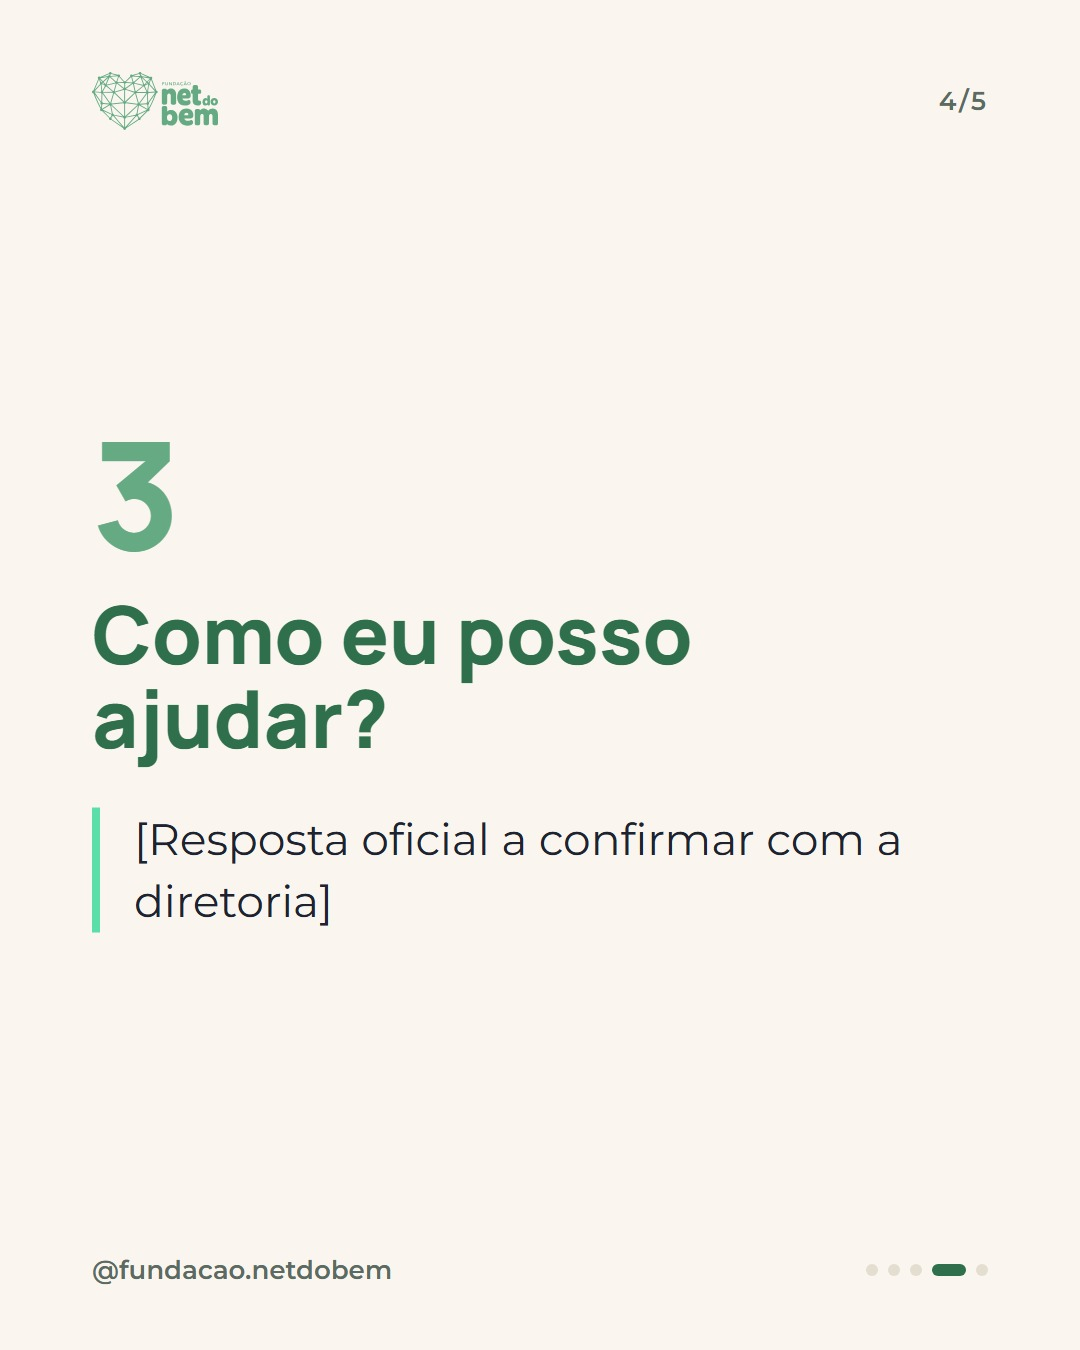
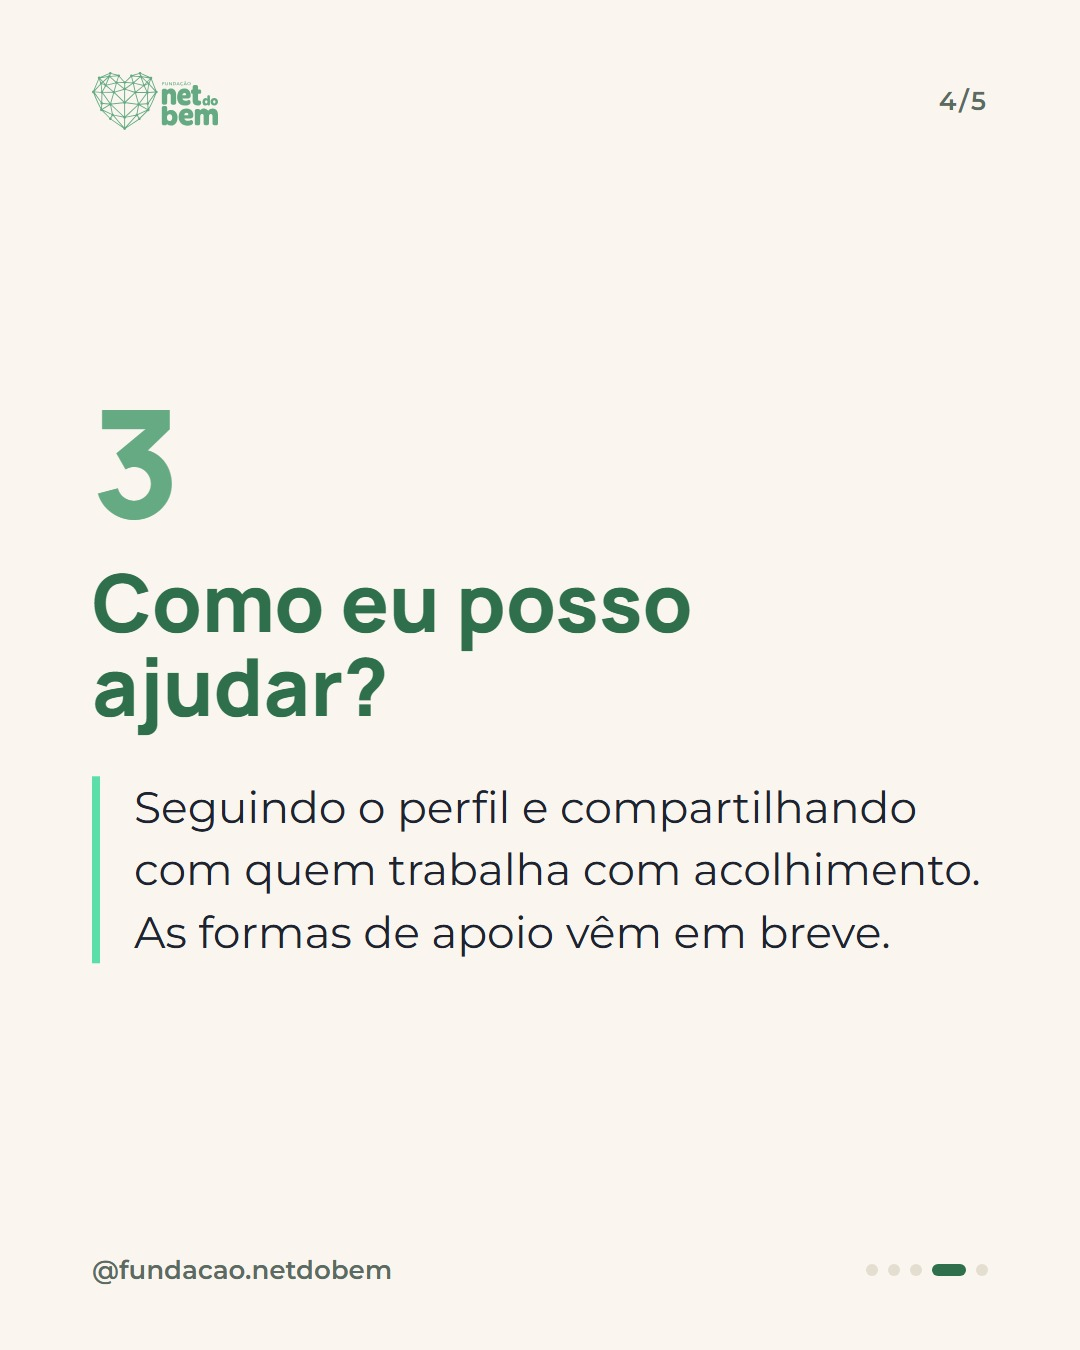
Roteiros: captação, fala e Reels do André, FAQ provisório e entrevista com cuidador

Changed region(s): [[0.0611, 0.28, 0.8861, 0.7156], [0.0611, 0.6844, 0.0917, 0.7156], [0.0611, 0.56, 0.0917, 0.5911]]

diff --git a/index.html b/index.html
@@ -82,5 +82,5 @@ textarea{width:100%;min-height:90px;border:1px solid var(--borda);border-radius:
 <main class="wrap"><section><h2 class="sec-t">Meses</h2><a class="tl" href="novembro-dezembro/index.html" style="padding:14px"><img src="novembro-dezembro/01-hoje-e-dia-de-inaugurar/1.jpg" style="width:72px;height:90px">
 <div class="inf"><div class="tt" style="font-size:19px">Novembro e Dezembro 2026</div><div class="mt">Do fim de novembro ao fim de dezembro: a inauguração em 26/11 (Fase 0), quem somos (Fase 1) e quem cuida (Fase 2). Dezesseis posts para a Net do Bem existir, se explicar em 10 segundos e abrir o nosso território: quem cuida de quem cuida.</div>
 <div style="margin-top:6px"><span class="pill ok">10 prontos</span><span class="pill pend">6 com pendência</span></div></div></a><div class="tl" style="padding:14px;opacity:.7"><div class="inf"><div class="tt" style="font-size:19px">Janeiro 2027</div><div class="mt">Fase 3 · Como ajudar. Pautas definidas na estratégia, arte depois dos primeiros dados do perfil.</div></div></div><div class="tl" style="padding:14px;opacity:.7"><div class="inf"><div class="tt" style="font-size:19px">Fevereiro 2027</div><div class="mt">Fase 4 · Transparência. Pautas definidas na estratégia, arte depois dos primeiros dados do perfil.</div></div></div></section>
-<section><h2 class="sec-t">Estratégia e documentação</h2><a class="tl" href="doc.html?f=estrategia/01-estrategia.md"><div class="inf"><div class="tt">Estratégia, conflitos resolvidos e calendário</div><div class="mt">estrategia/01-estrategia.md</div></div></a><a class="tl" href="doc.html?f=estrategia/02-pesquisa-tendencias.md"><div class="inf"><div class="tt">Pesquisa: tendências e oportunidades</div><div class="mt">estrategia/02-pesquisa-tendencias.md</div></div></a><a class="tl" href="doc.html?f=estrategia/03-sistema-visual.md"><div class="inf"><div class="tt">Sistema visual</div><div class="mt">estrategia/03-sistema-visual.md</div></div></a><a class="tl" href="doc.html?f=estrategia/04-guia-copy.md"><div class="inf"><div class="tt">Guia de copy e revisão no-ai-slop</div><div class="mt">estrategia/04-guia-copy.md</div></div></a><a class="tl" href="doc.html?f=estrategia/05-fluxo-orquestrado.md"><div class="inf"><div class="tt">Fluxo dos 5 papéis e aprovação</div><div class="mt">estrategia/05-fluxo-orquestrado.md</div></div></a><a class="tl" href="doc.html?f=briefing/briefing-net-do-bem-v2.md"><div class="inf"><div class="tt">Briefing V2 (fonte de verdade)</div><div class="mt">briefing/briefing-net-do-bem-v2.md</div></div></a></section>
+<section><h2 class="sec-t">Estratégia e documentação</h2><a class="tl" href="doc.html?f=estrategia/01-estrategia.md"><div class="inf"><div class="tt">Estratégia, conflitos resolvidos e calendário</div><div class="mt">estrategia/01-estrategia.md</div></div></a><a class="tl" href="doc.html?f=estrategia/02-pesquisa-tendencias.md"><div class="inf"><div class="tt">Pesquisa: tendências e oportunidades</div><div class="mt">estrategia/02-pesquisa-tendencias.md</div></div></a><a class="tl" href="doc.html?f=estrategia/03-sistema-visual.md"><div class="inf"><div class="tt">Sistema visual</div><div class="mt">estrategia/03-sistema-visual.md</div></div></a><a class="tl" href="doc.html?f=estrategia/04-guia-copy.md"><div class="inf"><div class="tt">Guia de copy e revisão no-ai-slop</div><div class="mt">estrategia/04-guia-copy.md</div></div></a><a class="tl" href="doc.html?f=estrategia/05-fluxo-orquestrado.md"><div class="inf"><div class="tt">Fluxo dos 5 papéis e aprovação</div><div class="mt">estrategia/05-fluxo-orquestrado.md</div></div></a><a class="tl" href="doc.html?f=roteiros/01-captacao-inauguracao.md"><div class="inf"><div class="tt">Lista de captação da inauguração (26/11)</div><div class="mt">roteiros/01-captacao-inauguracao.md</div></div></a><a class="tl" href="doc.html?f=roteiros/02-fala-abertura-andre.md"><div class="inf"><div class="tt">Fala de abertura do André</div><div class="mt">roteiros/02-fala-abertura-andre.md</div></div></a><a class="tl" href="doc.html?f=roteiros/03-reels-andre.md"><div class="inf"><div class="tt">Roteiro do Reels do André</div><div class="mt">roteiros/03-reels-andre.md</div></div></a><a class="tl" href="doc.html?f=roteiros/04-faq-provisorio.md"><div class="inf"><div class="tt">Respostas provisórias para comentários e Direct</div><div class="mt">roteiros/04-faq-provisorio.md</div></div></a><a class="tl" href="doc.html?f=roteiros/05-entrevista-cuidador.md"><div class="inf"><div class="tt">Roteiro de entrevista com cuidador</div><div class="mt">roteiros/05-entrevista-cuidador.md</div></div></a><a class="tl" href="doc.html?f=briefing/briefing-net-do-bem-v2.md"><div class="inf"><div class="tt">Briefing V2 (fonte de verdade)</div><div class="mt">briefing/briefing-net-do-bem-v2.md</div></div></a></section>
 <p class="foot">Substrato Digital para Fundação Net do Bem</p></main></body></html>

diff --git a/novembro-dezembro/index.html b/novembro-dezembro/index.html
@@ -603,6 +603,7 @@ Compartilhe com quem cuida de alguém.</div>
    <p>1 ideia · 1 CTA · gancho até 6 palavras · sem criança identificável · sem endereço ou rotina · sem cópia de perfil de referência · sem Imposto de Renda · rosto de adulto só com autorização · aprovado por Barros, Patrícia e Agda.</p></details>
  </div>
 </article></section><section><h2 class="sec-t">Posts de reserva</h2><div class="box res"><ul><li><b>Bastidor de formação de quem cuida</b> (Fase 2). Assim que a primeira formação acontecer. Depende de uma formação real com registro e autorização.</li><li><b>Casa de acolhimento? Responda ao mapeamento</b> (Fase 1 ou 2). Quando a diretoria aprovar. Precisa de um CTA novo (&quot;Acesse o portal na bio&quot;), que não está na lista da seção 11 do briefing.</li></ul></div></section>
+<section><h2 class="sec-t">Roteiros e captação</h2><p class="sec-p">Rascunhos com pendência para a equipe revisar.</p><a class="tl" href="../doc.html?f=roteiros/01-captacao-inauguracao.md"><div class="inf"><div class="tt">Lista de captação da inauguração (26/11)</div><div class="mt">roteiros/01-captacao-inauguracao.md</div></div></a><a class="tl" href="../doc.html?f=roteiros/02-fala-abertura-andre.md"><div class="inf"><div class="tt">Fala de abertura do André</div><div class="mt">roteiros/02-fala-abertura-andre.md</div></div></a><a class="tl" href="../doc.html?f=roteiros/03-reels-andre.md"><div class="inf"><div class="tt">Roteiro do Reels do André</div><div class="mt">roteiros/03-reels-andre.md</div></div></a><a class="tl" href="../doc.html?f=roteiros/04-faq-provisorio.md"><div class="inf"><div class="tt">Respostas provisórias para comentários e Direct</div><div class="mt">roteiros/04-faq-provisorio.md</div></div></a><a class="tl" href="../doc.html?f=roteiros/05-entrevista-cuidador.md"><div class="inf"><div class="tt">Roteiro de entrevista com cuidador</div><div class="mt">roteiros/05-entrevista-cuidador.md</div></div></a></section>
 <p class="foot">Fundação Net do Bem · @fundacao.netdobem · Conteúdo preparado pela Substrato Digital</p></main>
 <div class="toast"></div><script>
 document.querySelectorAll('.slider').forEach(s=>{const t=s.querySelector('.track'),im=[...t.children],th=[...s.parentElement.querySelectorAll('.thumbs img')],c=s.querySelector('.cnt');

diff --git a/doc.html b/doc.html
@@ -8,5 +8,5 @@ code,pre{background:#fff;border:1px solid #E6E0D3;border-radius:8px}pre{padding:
 <script src="https://cdn.jsdelivr.net/npm/marked@12/marked.min.js"></script></head><body>
 <header><a href="index.html">← Fundação Net do Bem · Instagram e Facebook</a></header><main id="c">Carregando…</main>
 <script>const f=new URLSearchParams(location.search).get('f')||'';
-if(!/^(estrategia|briefing)\/[\w.-]+\.md$/.test(f)){document.getElementById('c').textContent='Documento não encontrado.'}
+if(!/^(estrategia|briefing|roteiros)\/[\w.-]+\.md$/.test(f)){document.getElementById('c').textContent='Documento não encontrado.'}
 else fetch(f).then(r=>r.text()).then(t=>{document.getElementById('c').innerHTML=marked.parse(t);document.title=(t.match(/^# (.*)/m)||[,'Documento'])[1]})</script></body></html>

diff --git a/ferramentas/build.py b/ferramentas/build.py
@@ -218,6 +218,7 @@ def month_page(mes):
 {cal}</section>
 <section id="posts"><h2 class="sec-t">Posts para revisão</h2><p class="sec-p">Arraste as imagens, copie a legenda de cada rede e aprove ou peça ajuste. Post com pendência só vai ao ar depois que ela for resolvida.</p>
 {filt}{posts}</section>{reserva}
+<section><h2 class="sec-t">Roteiros e captação</h2><p class="sec-p">Rascunhos com pendência para a equipe revisar.</p>{"".join(f'<a class="tl" href="../doc.html?f={f}"><div class="inf"><div class="tt">{e(t)}</div><div class="mt">{f}</div></div></a>' for f, t in DOCS if f.startswith("roteiros/"))}</section>
 <p class="foot">Fundação Net do Bem · @fundacao.netdobem · Conteúdo preparado pela Substrato Digital</p></main>
 <div class="toast"></div><script>{JS}</script></body></html>"""
 
@@ -227,6 +228,11 @@ DOCS = [("estrategia/01-estrategia.md", "Estratégia, conflitos resolvidos e cal
         ("estrategia/03-sistema-visual.md", "Sistema visual"),
         ("estrategia/04-guia-copy.md", "Guia de copy e revisão no-ai-slop"),
         ("estrategia/05-fluxo-orquestrado.md", "Fluxo dos 5 papéis e aprovação"),
+        ("roteiros/01-captacao-inauguracao.md", "Lista de captação da inauguração (26/11)"),
+        ("roteiros/02-fala-abertura-andre.md", "Fala de abertura do André"),
+        ("roteiros/03-reels-andre.md", "Roteiro do Reels do André"),
+        ("roteiros/04-faq-provisorio.md", "Respostas provisórias para comentários e Direct"),
+        ("roteiros/05-entrevista-cuidador.md", "Roteiro de entrevista com cuidador"),
         ("briefing/briefing-net-do-bem-v2.md", "Briefing V2 (fonte de verdade)")]
 
 
@@ -263,7 +269,7 @@ code,pre{background:#fff;border:1px solid #E6E0D3;border-radius:8px}pre{padding:
 <script src="https://cdn.jsdelivr.net/npm/marked@12/marked.min.js"></script></head><body>
 <header><a href="index.html">← Fundação Net do Bem · Instagram e Facebook</a></header><main id="c">Carregando…</main>
 <script>const f=new URLSearchParams(location.search).get('f')||'';
-if(!/^(estrategia|briefing)\\/[\\w.-]+\\.md$/.test(f)){document.getElementById('c').textContent='Documento não encontrado.'}
+if(!/^(estrategia|briefing|roteiros)\\/[\\w.-]+\\.md$/.test(f)){document.getElementById('c').textContent='Documento não encontrado.'}
 else fetch(f).then(r=>r.text()).then(t=>{document.getElementById('c').innerHTML=marked.parse(t);document.title=(t.match(/^# (.*)/m)||[,'Documento'])[1]})</script></body></html>"""
 
 

diff --git a/ferramentas/conteudo.py b/ferramentas/conteudo.py
@@ -372,7 +372,7 @@ POSTS = [
             {"tipo": "capa", "img": "perguntas-a.jpg", "kicker": "Respostas curtas", "titulo": "3 perguntas da inauguração"},
             {"tipo": "pergunta", "num": "1", "pergunta": "Vocês acolhem crianças?", "resposta": "Não. Apoiamos as casas de acolhimento e as equipes que trabalham nelas."},
             {"tipo": "pergunta", "num": "2", "pergunta": "Como uma casa participa?", "resposta": "O primeiro passo é responder ao mapeamento em portal.netdobem.org.br."},
-            {"tipo": "pergunta", "num": "3", "pergunta": "Como eu posso ajudar?", "resposta": "[Resposta oficial a confirmar com a diretoria]"},
+            {"tipo": "pergunta", "num": "3", "pergunta": "Como eu posso ajudar?", "resposta": "Seguindo o perfil e compartilhando com quem trabalha com acolhimento. As formas de apoio vêm em breve."},
             {"tipo": "cta", "texto": "Salva e compartilha", "apoio": "Tem outra pergunta? Responderemos nos próximos posts."},
         ],
         "legenda_ig": (

diff --git a/roteiros/04-faq-provisorio.md b/roteiros/04-faq-provisorio.md
@@ -1,0 +1,19 @@
+# Respostas provisórias para comentários e Direct · RASCUNHO COM PENDÊNCIA
+
+Para quem cuida do perfil responder com a mesma voz. Respostas curtas, sem travessão, sem prometer o que ainda não existe.
+
+**Pendências:** a diretoria confirma a resposta 3 e o canal de contato; Patrícia e Agda validam o conjunto.
+
+| # | Pergunta | Resposta |
+|---|---|---|
+| 1 | Vocês acolhem crianças? | Não. A Net do Bem apoia as casas de acolhimento e as equipes que trabalham nelas. |
+| 2 | Vocês fazem adoção? | Não trabalhamos com adoção. Esse caminho é feito pela Justiça da Infância e da Juventude da sua cidade. |
+| 3 | Como posso ajudar? | Por enquanto, seguir o perfil e compartilhar com quem trabalha com acolhimento já ajuda muito. Estamos organizando as formas de apoio e vamos contar tudo por aqui. [Confirmar com a diretoria] |
+| 4 | Trabalho numa casa de acolhimento. Como participo? | Que bom te ver aqui. O primeiro passo é responder ao mapeamento em portal.netdobem.org.br. Se tiver dúvida, chama a gente no WhatsApp (15) 99100-3425. |
+| 5 | Vocês são da Netbr? | A Fundação Net do Bem é independente. O André, nosso fundador, também é CEO da Netbr, mas são organizações separadas. |
+| 6 | Posso doar? | Ainda estamos organizando os canais de doação. Quando abrirem, vamos explicar aqui para que é, para quem é e como funciona. |
+| 7 | Posso ser voluntário? | Estamos estruturando o voluntariado. Segue o perfil que a gente avisa quando abrir. |
+| 8 | Dá para destinar Imposto de Renda? | Ainda não. Quando houver um projeto aprovado e um canal oficial, vamos explicar tudo com a revisão de um contador. |
+| 9 | Onde fica a casa de vocês? | Por segurança, não divulgamos endereços de casas. Para falar com a fundação, chama no WhatsApp (15) 99100-3425. |
+
+Comentário com foto de criança, dado pessoal ou ofensa: ocultar e responder por Direct, se couber.

diff --git a/roteiros/01-captacao-inauguracao.md b/roteiros/01-captacao-inauguracao.md
@@ -1,0 +1,38 @@
+# Lista de captação · inauguração 26/11 · RASCUNHO COM PENDÊNCIA
+
+Para quem vai fotografar e filmar no evento. Tudo aqui alimenta os posts de 26/11 a 10/12.
+
+**Pendência:** definir quem fotografa e quem filma (celular na vertical serve).
+
+## Regras antes de começar
+
+- Nenhuma criança no enquadramento, nem de costas, nem ao fundo.
+- Nada de fachada, placa, portaria ou detalhe que identifique o local.
+- Rosto de adulto só com autorização. Levar o termo de uso de imagem impresso.
+- Vídeo na vertical (9:16). Foto na vertical (4:5) e algumas na horizontal.
+
+## Antes do evento (até 17h)
+
+| # | O que captar | Para qual post |
+|---|---|---|
+| 1 | Foto da equipe (André, Patrícia, Agda) juntos, sorrindo, fundo limpo | 01 (versão com foto) e 05 |
+| 2 | Mãos arrumando mesa, crachás, material impresso | 03 bastidores |
+| 3 | Banner verde montado, sem o entorno do salão | 03 |
+| 4 | 3 vídeos curtos de 5 s da montagem | Stories da manhã |
+
+## Durante
+
+| # | O que captar | Para qual post |
+|---|---|---|
+| 5 | Fala de abertura do André, vídeo completo, câmera fixa na altura do rosto | Reels 29/11 ou 08/12 |
+| 6 | Patrícia e Agda falando, 1 foto e 30 s de vídeo de cada | 03, 04 |
+| 7 | Convidados adultos conversando, com autorização | 03 |
+| 8 | Close do QR code do perfil sendo escaneado | Stories |
+| 9 | Anotar as 3 perguntas que mais aparecerem nas conversas | 10 FAQ |
+
+## Depois
+
+| # | O que captar | Para qual post |
+|---|---|---|
+| 10 | Foto da equipe no fim da noite | 05 |
+| 11 | Reposts de quem marcou o perfil (só adultos) | Stories 26 e 27/11 |

diff --git a/roteiros/03-reels-andre.md b/roteiros/03-reels-andre.md
@@ -1,0 +1,26 @@
+# Reels do André · RASCUNHO COM PENDÊNCIA
+
+Dois cortes saem da mesma gravação: um para 29/11 (opcional) e outro para 08/12.
+
+**Pendências:** gravar até 04/12; o André aprova o texto; publicar em collab com o perfil pessoal dele.
+
+## Como gravar
+
+- Celular na vertical, na altura dos olhos, a um braço de distância.
+- Fundo real (escritório, sala, rua calma). Sem estúdio, sem fundo verde.
+- Luz de frente, janela ao lado da câmera.
+- Microfone de lapela ou fone com microfone.
+- Gravar cada bloco 3 vezes. Legenda queimada no vídeo, porque a maioria assiste sem som.
+
+## Corte A · 08/12 · "Por que criei a Net do Bem" (40 a 50 s)
+
+| Tempo | Fala | Na tela |
+|---|---|---|
+| 0 a 3 s | "Depois de 30 anos construindo empresa, eu quis devolver uma parte disso." | Rosto do André, texto: Por que criei a Net do Bem |
+| 3 a 20 s | "Conheci casas de acolhimento com equipes incríveis e sem apoio de gestão, de captação, de planejamento." | Corte para mãos anotando ou ilustração em massinha |
+| 20 a 35 s | "A Net do Bem existe para levar esse apoio. Começamos ouvindo as casas, com um mapeamento." | Rosto |
+| 35 a 45 s | "Salva este vídeo e manda para quem trabalha com acolhimento." | Texto: Salva e compartilha |
+
+## Corte B · 29/11 · "Quem faz a Net do Bem" (30 s, só se houver vídeo do evento)
+
+Usar trechos da fala de abertura: apresentação, por que existimos, pedido para seguir e compartilhar.

diff --git a/roteiros/05-entrevista-cuidador.md b/roteiros/05-entrevista-cuidador.md
@@ -1,0 +1,30 @@
+# Entrevista com cuidador · post de 29/12 · RASCUNHO COM PENDÊNCIA
+
+Primeira voz de quem cuida no perfil. Conversa de 15 a 20 minutos; o post usa um trecho de até 3 linhas.
+
+**Pendências:** escolher a casa parceira e o entrevistado (adulto, educador, cuidador ou técnico), com o ok da coordenação da casa; termo de uso de imagem assinado; Agda conduz ou acompanha.
+
+## Antes
+
+- Explicar onde o conteúdo vai sair e que a pessoa pode desistir até a publicação.
+- Combinar se aparece o rosto ou só as mãos. As duas formas funcionam.
+- Local neutro: nada de quarto, cama, mural com fotos, placa ou fachada.
+- Nenhuma criança no ambiente durante a gravação.
+
+## Perguntas
+
+1. Há quanto tempo você trabalha com acolhimento e o que você faz num dia comum?
+2. O que você queria que mais pessoas soubessem sobre o seu trabalho?
+3. Qual parte do trabalho ninguém vê?
+4. Que tipo de apoio faria diferença na sua rotina?
+5. O que te faz continuar?
+
+## Não perguntar
+
+- Nada sobre histórias de crianças ou famílias atendidas.
+- Nada que identifique a casa, a rotina ou os horários.
+
+## Depois
+
+- Transcrever e escolher o trecho com a pessoa, sem mudar o sentido.
+- O entrevistado aprova o texto final antes de ir para Barros, Patrícia e Agda.

diff --git a/roteiros/02-fala-abertura-andre.md b/roteiros/02-fala-abertura-andre.md
@@ -1,0 +1,21 @@
+# Fala de abertura do André · inauguração 26/11 · RASCUNHO COM PENDÊNCIA
+
+Até 2 minutos. Escrito para ser falado, com espaço para o André trocar por palavras dele.
+
+**Pendências:** o André revisa e completa os trechos entre colchetes. Nada aqui foi dito por ele ainda.
+
+---
+
+Boa noite. Obrigado por estarem aqui.
+
+Há um ano, em 26 de novembro de 2025, nasceu a Fundação Net do Bem. Hoje a gente inaugura de verdade, com vocês.
+
+Passei mais de 30 anos construindo empresa na área de tecnologia. Em algum momento quis devolver uma parte disso. [Uma frase do André sobre o momento em que decidiu criar a fundação.]
+
+Conhecendo casas de acolhimento, vi equipes que fazem um trabalho enorme e quase nunca têm apoio de gestão, de captação, de planejamento. A Net do Bem existe para fortalecer essas casas e as pessoas que cuidam nelas.
+
+O primeiro passo é ouvir. A Patrícia e a Agda vão contar daqui a pouco como vamos fazer isso, começando pelo mapeamento das casas.
+
+Um pedido simples para hoje: sigam a fundação no Instagram. O QR code está [local do QR code no salão]. É por lá que vocês vão acompanhar cada passo.
+
+Fortalecer quem cuida também é proteger a infância. Obrigado.
